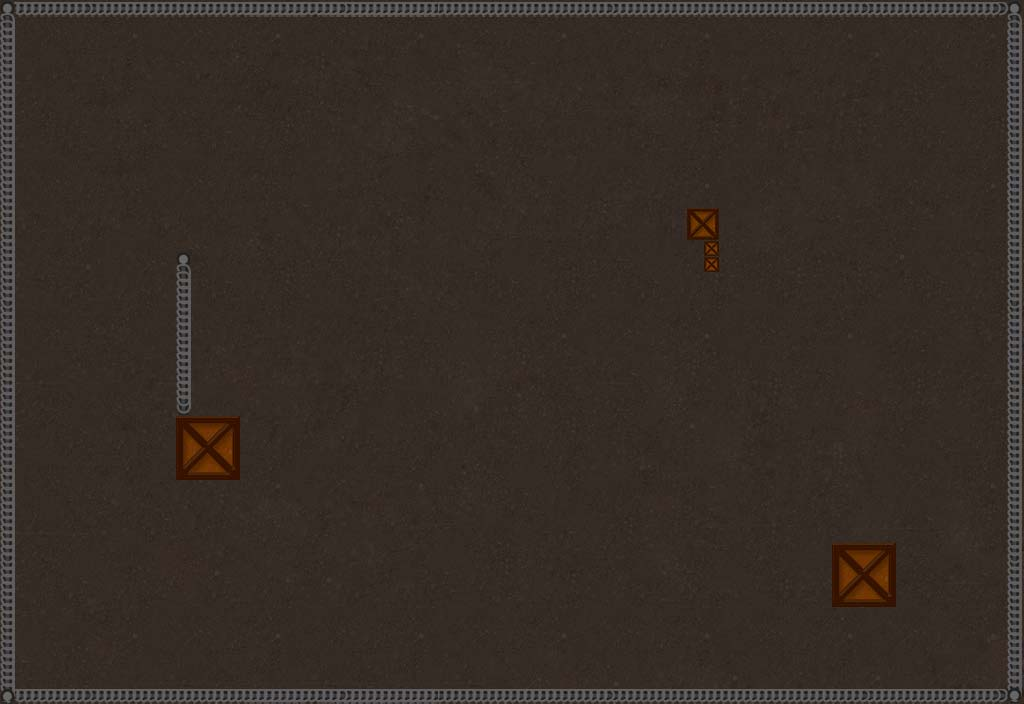
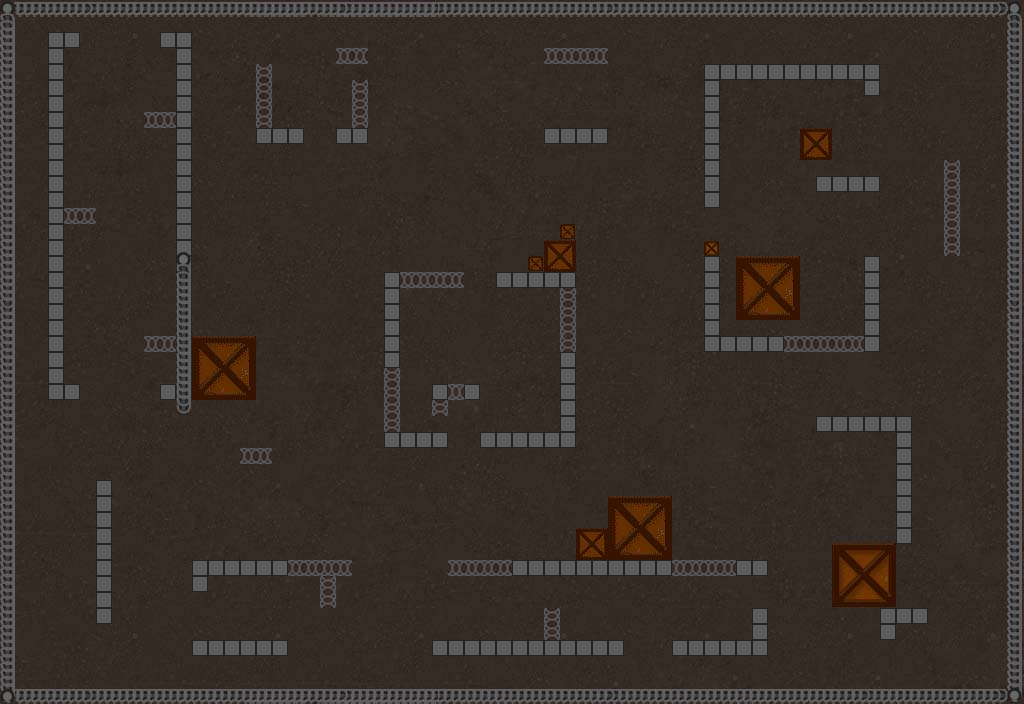
new map

diff --git a/public/assets/map.js b/public/assets/map.js
@@ -1,45 +1,45 @@
 var map = [
     '0000000000000000000000000000000000000000000000000000000000000000',
     '0                                                              0',
-    '0   S                          S                           S   0',
-    '0                                                              0',
-    '0                                                              0',
-    '0                                                              0',
-    '0                                                              0',
-    '0                                                              0',
-    '0                                                              0',
-    '0                                                              0',
-    '0                                                              0',
-    '0                                                              0',
-    '0                                                              0',
-    '0                                          00                  0',
-    '0                                          00                  0',
-    '0                                           0                  0',
-    '0          1             S           S      0                  0',
-    '0          1                                                   0',
-    '0          1                                                   0',
-    '0          1                                                   0',
-    '0          1                   S                               0',
-    '0          1                                 S             S   0',
-    '0          1       S                                           0',
-    '0          1                   S                               0',
-    '0          1                                                   0',
-    '0          1                                                   0',
-    '0          0000                                                0',
-    '0          0000         S             S                        0',
-    '0          0000                                                0',
-    '0          0000                                                0',
-    '0      S                                                S      0',
-    '0                                                              0',
-    '0                                                              0',
-    '0                                                              0',
-    '0            S                                    S 0000       0',
-    '0                                                   0000       0',
-    '0                                                   0000       0',
-    '0                                                   0000       0',
-    '0                                                              0',
-    '0                                                              0',
-    '0                                                              0',
+    '0  00     00                                             S     0',
+    '0  0       0         11           1111                         0',
+    '0  0   S   0    1                           00000000000        0',
+    '0  0       0    1  S  1                     0         0        0',
+    '0  0       0    1     1            S        0                  0',
+    '0  0     110    1     1                     0                  0',
+    '0  0       0    000  00           0000      0     00           0',
+    '0  0       0                                0     00           0',
+    '0  0       0                                0              0   0',
+    '0  0       0                                0      0000    0   0',
+    '0  0       0                                0              0   0',
+    '0  011     0                                               0   0',
+    '0  0       0         S             0             S         0   0',
+    '0  0       0                      00        0              0   0',
+    '0  0       1                     000 S      0 0000    0        0',
+    '0  0       1            01111  00000        0 0000    0        0',
+    '0  0   S   1            0          0        0 0000    0        0',
+    '0  0       1            0          0        0 0000    0        0',
+    '0  0       1            0      S   0        0         0        0',
+    '0  0     1110000        0          0        00000111110    S   0',
+    '0  0       10000 S      0          0                           0',
+    '0  0       10000        1      S   0                           0',
+    '0  00     010000        1  010     0                           0',
+    '0          1            1  1       0                           0',
+    '0                       1          0               000000      0',
+    '0  S                    0000  000000      S             0      0',
+    '0              00                                       0      0',
+    '0                                                       0      0',
+    '0     0                                                 0      0',
+    '0     0                               0000              0      0',
+    '0     0            S                  0000              0      0',
+    '0     0                             000000              0      0',
+    '0     0                             000000        S 0000       0',
+    '0     0     0000001111      11110000000000111100    0000       0',
+    '0     0     0       1                               0000       0',
+    '0     0             1                               0000       0',
+    '0     0                           1            0       000     0',
+    '0                                 1            0       0       0',
+    '0           000000         000000000000   000000               0',
     '0   S                          S                           S   0',
     '0                                                              0',
     '0000000000000000000000000000000000000000000000000000000000000000'
